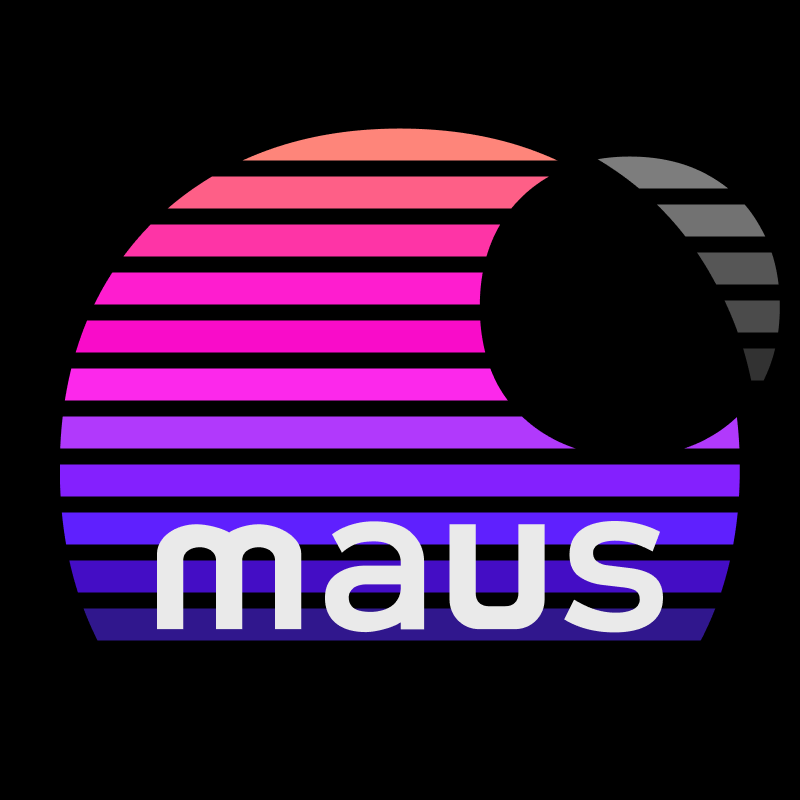
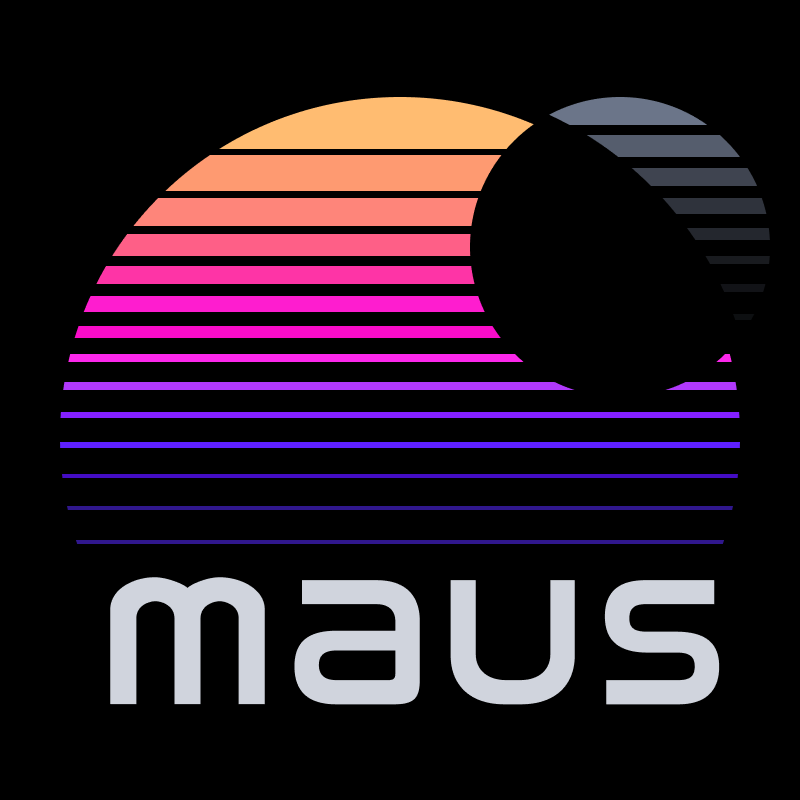
fix: resolved incorrect TSX color values
- Improved install instructions
- Updated icon asset

diff --git a/README.md b/README.md
@@ -19,21 +19,22 @@
 
 In a VS Code instance:
 
-1. Open the Command Palette (`ctrl + shift + P` or `cmd + shift + P`)
-2. Type `ext install Maus Theme` and press `enter / return`
+1. Open the Command Palette (`ctrl + P` or `cmd + P`)
+2. Type `ext install maus` and press `enter / return`
+3. Click 'Install' button under **`Maus Theme`**
 
-## Set Default Dark Theme
+## Set Dark Theme
 
-You can set theme defaults **`Maus Theme`** in  `settings.json`:
+Edit `settings.json`:
 
 1. Open the Command Palette again
 2. Type `Open User Settings (JSON)` and press `enter / return`
-3. Add the following line:
+3. Add the following:
 
 ```json
+"workbench.colorTheme": "Maus Dark",
 "workbench.preferredDarkColorTheme": "Maus Dark",
 ```
-<!-- "workbench.colorTheme": "Maus Dark", -->
 
 ## Contributing
 

diff --git a/CHANGELOG.md b/CHANGELOG.md
@@ -19,3 +19,10 @@ Add Maus Theme extension files:
 - Package JSON and configuration
 - Icon and screenshot
 - README and LICENSE
+
+## [0.0.2] - 2025-03-15
+
+### fix: resolved incorrect TSX color values
+
+- Improved install instructions
+- Updated icon asset
